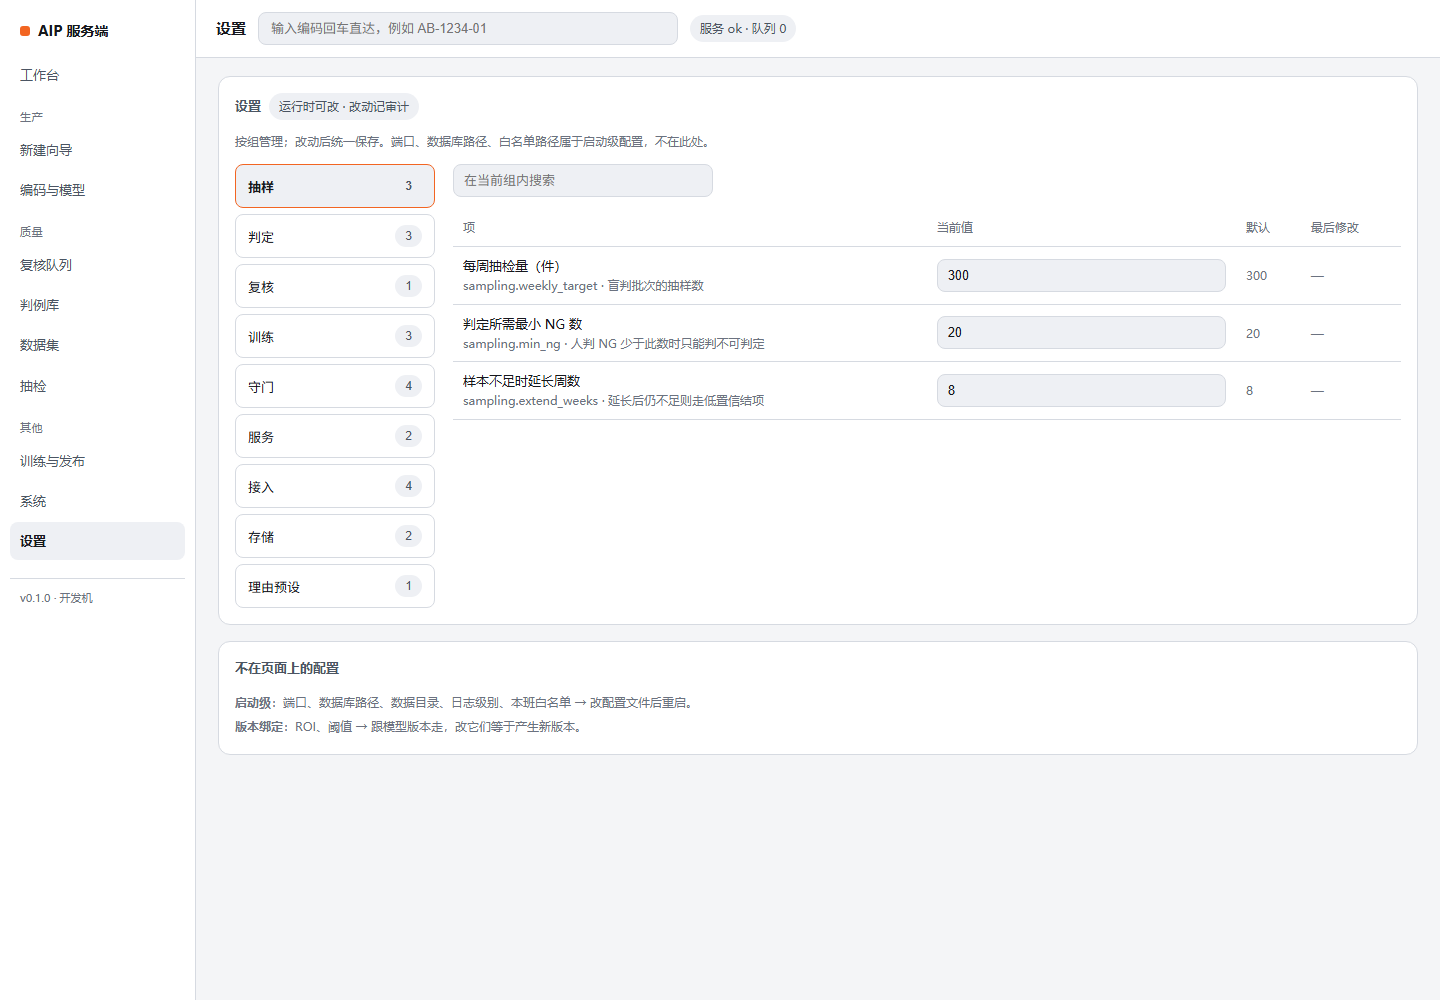
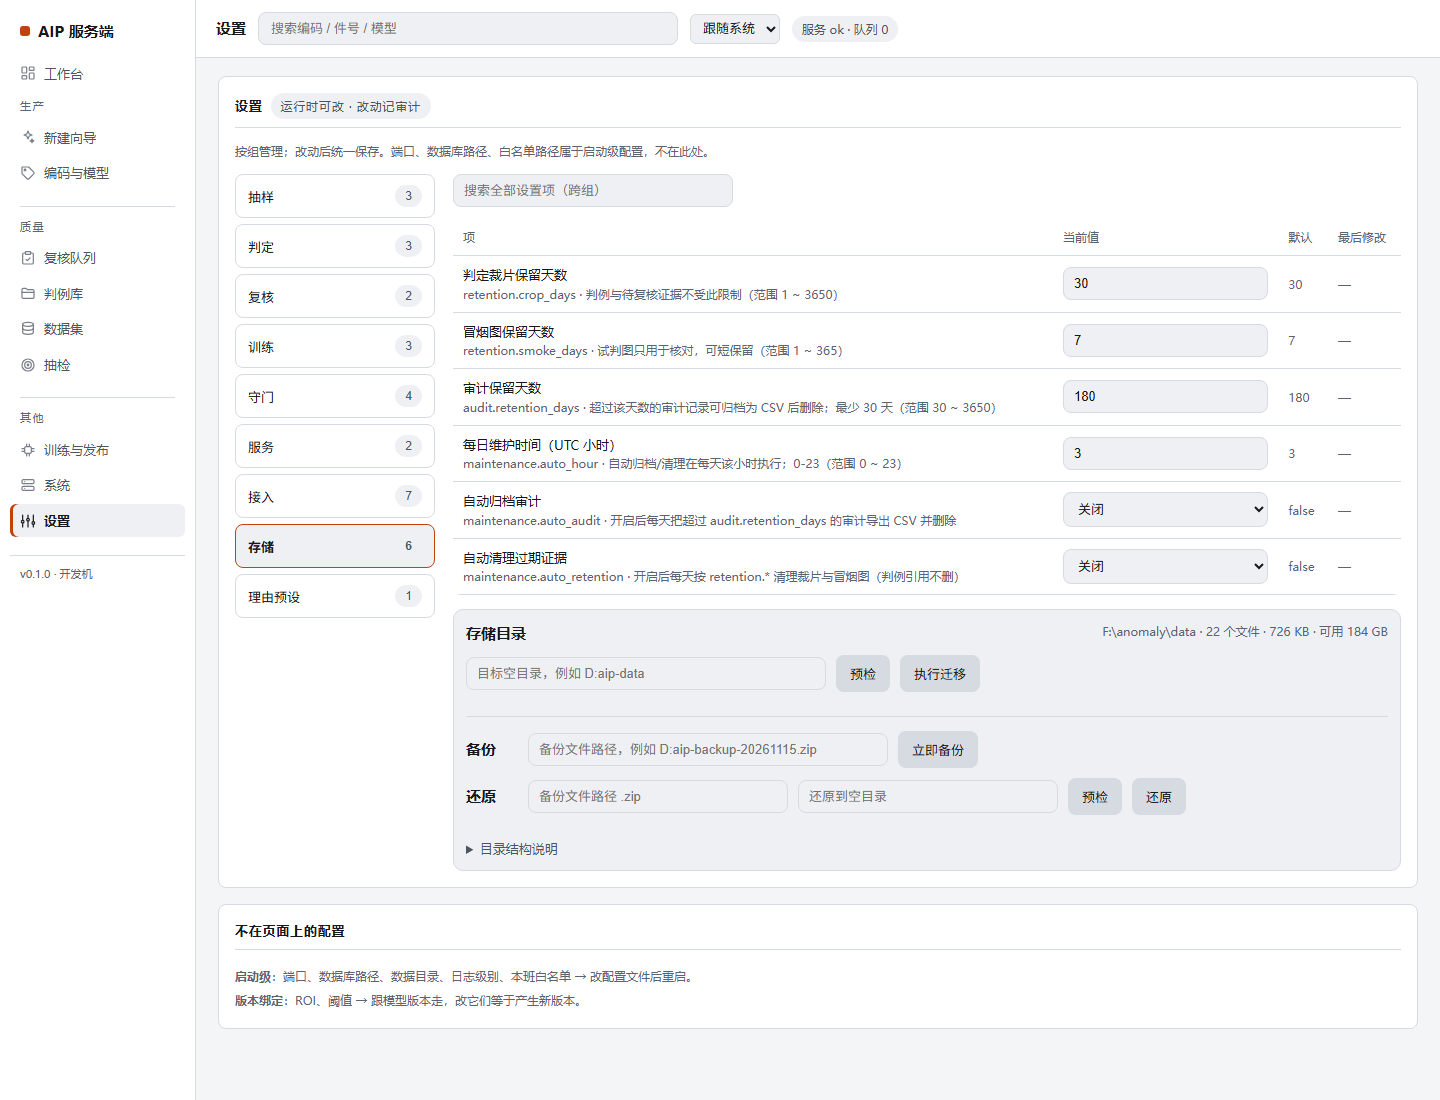
feat: 设置页跨组搜索、单行恢复默认、未保存守卫、范围提示

diff --git a/aip/web/admin.html b/aip/web/admin.html
@@ -178,6 +178,9 @@
   .settings-tab.on{background:var(--g2);border-color:var(--brand);font-weight:600}
   .settings-body{min-width:0}
   .settings-body th{white-space:nowrap}
+  .row-group{display:none;margin-right:6px;font-size:11px}
+  body.set-searching .row-group{display:inline-block}
+  .row-reset{margin-left:6px;padding:2px 8px;min-height:26px;font-size:12px}
   .storage-tree summary{cursor:pointer;font-size:13px;color:var(--t2);margin-top:4px}
   .storage-tree pre{background:var(--g1);border:1px solid var(--g3);border-radius:8px;
     padding:10px 12px;font-size:12px;line-height:1.6;color:var(--t2);overflow:auto}
@@ -1366,6 +1369,7 @@ async function renderQuality() {
 }
 
 let settingsState = { group: "" };
+let settingsDirty = null;
 
 const SETTING_ORDER = ["抽样", "判定", "复核", "训练", "守门", "服务", "接入", "存储", "理由预设"];
 
@@ -1439,16 +1443,20 @@ async function renderSettings() {
         </nav>
         <div class="settings-body">
           <div class="filterbar">
-            <input id="set_q" placeholder="在当前组内搜索" style="max-width:260px">
+            <input id="set_q" placeholder="搜索全部设置项（跨组）" aria-label="搜索全部设置项" style="max-width:280px">
           </div>
           <table><caption class="sr-only">${esc(group)} 配置</caption>
             <thead><tr><th scope="col">项</th><th scope="col">当前值</th><th scope="col">默认</th><th scope="col">最后修改</th></tr></thead>
             <tbody id="setRows">
-              ${inGroup.map(r => {
+              ${rows.map(r => {
                 const val = Array.isArray(r.value) ? r.value.join(",") : r.value;
                 const def = Array.isArray(r.default) ? r.default.join(",") : r.default;
-                return `<tr data-row="${esc((r.label + " " + r.key).toLowerCase())}">
-                  <td>${esc(r.label)}<div class="muted">${esc(r.key)}${r.description ? " · " + esc(r.description) : ""}</div></td>
+                const isDefault = String(val) === String(def);
+                const bound = (r.minimum != null || r.maximum != null)
+                  ? `（范围 ${r.minimum ?? "-"} ~ ${r.maximum ?? "-"}）` : "";
+                return `<tr data-row="${esc((r.label + " " + r.key).toLowerCase())}" data-group="${esc(r.group)}">
+                  <td><span class="pill row-group">${esc(r.group)}</span>${esc(r.label)}
+                    <div class="muted">${esc(r.key)}${r.description ? " · " + esc(r.description) : ""}${bound}</div></td>
                   <td>
                     <div class="input-with-action">
                       ${r.kind === "bool"
@@ -1468,7 +1476,9 @@ async function renderSettings() {
                         <button class="ghost" data-clear-token title="清空即关闭校验">清空</button>` : ""}
                     </div>
                   </td>
-                  <td class="muted">${esc(def)}</td>
+                  <td class="muted">${esc(def)}
+                    <button class="ghost row-reset" data-def="${esc(r.key)}" ${isDefault ? "hidden" : ""}>恢复默认</button>
+                  </td>
                   <td class="muted">${r.updated_by ? esc(r.updated_by) + "<br>" + fmtTime(r.updated_at) : "—"}</td>
                 </tr>`;
               }).join("")}
@@ -1491,12 +1501,21 @@ async function renderSettings() {
       <button class="act" id="setSave">保存修改</button>
     </div>`;
 
+  settingsDirty = dirty;
   const bar = $("setBar");
   const count = $("setCount");
   const sync = () => {
     bar.hidden = dirty.size === 0;
     count.textContent = `${dirty.size} 项未保存`;
   };
+
+  function applyFilter() {
+    const q = ($("set_q").value || "").trim().toLowerCase();
+    document.body.classList.toggle("set-searching", q !== "");
+    document.querySelectorAll("#setRows tr").forEach(tr => {
+      tr.hidden = q ? !tr.dataset.row.includes(q) : tr.dataset.group !== settingsState.group;
+    });
+  }
 
   document.querySelectorAll("[data-k]").forEach(inp => {
     ["input", "change"].forEach(evt => inp.addEventListener(evt, () => {
@@ -1505,26 +1524,41 @@ async function renderSettings() {
       if (row.kind === "int" || row.kind === "float") value = Number(value);
       else if (row.kind === "list") value = value.split(",").map(s => s.trim()).filter(Boolean);
       else if (row.kind === "bool") value = value === "true" || value === "1";
-      dirty.set(inp.dataset.k, value);
+      const orig = Array.isArray(row.value) ? row.value.join(",") : row.value;
+      if (String(value) === String(orig)) dirty.delete(inp.dataset.k);
+      else dirty.set(inp.dataset.k, value);
+      const resetBtn = document.querySelector(`[data-def="${inp.dataset.k}"]`);
+      const defVal = Array.isArray(row.default) ? row.default.join(",") : row.default;
+      if (resetBtn) resetBtn.hidden = String(inp.value) === String(defVal);
       sync();
     }));
   });
+
+  document.querySelectorAll(".row-reset").forEach(btn => {
+    btn.onclick = () => {
+      const row = rows.find(r => r.key === btn.dataset.def);
+      const inp = document.querySelector(`[data-k="${btn.dataset.def}"]`);
+      if (!row || !inp) return;
+      const defVal = Array.isArray(row.default) ? row.default.join(",") : row.default;
+      inp.value = String(defVal);
+      inp.dispatchEvent(new Event("input", {bubbles: true}));
+      toast(`已恢复默认：${row.label}`);
+    };
+  });
+
+  applyFilter();
 
   document.querySelectorAll(".settings-tab").forEach(tab => {
     tab.onclick = () => {
       if (dirty.size && !confirm("有未保存的修改，切换分组会丢弃，继续？")) return;
       settingsState.group = tab.dataset.group;
+      settingsState.search = "";
       history.replaceState(null, "", "#/settings");
       renderSettings();
     };
   });
 
-  $("set_q").addEventListener("input", (e) => {
-    const q = e.target.value.trim().toLowerCase();
-    document.querySelectorAll("#setRows tr").forEach(tr => {
-      tr.hidden = q !== "" && !tr.dataset.row.includes(q);
-    });
-  });
+  $("set_q").addEventListener("input", applyFilter);
 
   const tokenInput = () => document.querySelector('input[data-k="station.token"]');
 
@@ -2506,8 +2540,23 @@ function enhanceTables() {
 const viewObserver = new MutationObserver(() => enhanceTables());
 viewObserver.observe(document.getElementById("view"), {childList: true});
 
+window.addEventListener("beforeunload", (ev) => {
+  if (settingsDirty && settingsDirty.size) {
+    ev.preventDefault();
+    ev.returnValue = "";
+  }
+});
+
 async function route() {
   const raw = (location.hash.replace(/^#\/?/, "") || "workbench").split("?")[0];
+  const [prevPage] = (document.body.dataset.page || "").split("/");
+  if (prevPage === "settings" && raw !== "settings" && settingsDirty && settingsDirty.size) {
+    if (!confirm(`有 ${settingsDirty.size} 项设置未保存，离开会丢弃。继续？`)) {
+      history.replaceState(null, "", "#/settings");
+      return;
+    }
+    settingsDirty = null;
+  }
   const [name, arg] = raw.split("/");
   document.querySelectorAll("[data-nav]").forEach(a => {
     const on = a.dataset.nav === (name === "code" ? "catalog" : name);
